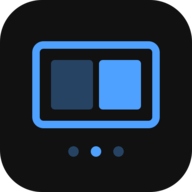
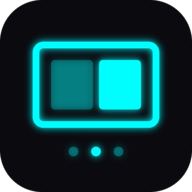
Theme: adopt the desktop's Cyberpunk Cyan palette
Takes the palette from the Omarchy theme this machine runs, matching the
roles rather than copying hex values: #00ffff is already what "active" means
here (col.active_border, the hyprlock ring) so it is the accent, and #ff2a6d
is already what failure means (hyprlock's fail_color) so it is the error
colour. The app now agrees with the rest of the screen.

Neon as highlight, not texture: glow on the wordmark, active rail dot,
workspace badge, working pulse, focus rings and the primary action. Nothing
else, because if everything glows nothing signals.

Icon regenerated in the same palette with a soft bloom, plus manifest and
theme-color, so the installed app matches. Light mode dropped — a cyberpunk
palette has no coherent light variant.

Contrast measured, not assumed: body 17.8:1, dim 5.7:1, transcript 16.5:1.
The check caught the placeholder at 1.14:1 — a transparent tint that was
effectively invisible, which had silently killed the rotating hints that
live in it. Now 5.3:1.

diff --git a/web/src/app.css b/web/src/app.css
@@ -1,16 +1,27 @@
 :root {
-  color-scheme: dark light;
-  --bg: #111; --fg: #e8e8e8; --dim: #8a8a8a;
-  --line: #333; --ok: #4ea1ff; --err: #ff6b6b;
-  --panel: color-mix(in srgb, var(--fg) 6%, transparent);
-  /* One elevation step. Cards sit on it so they read as objects rather than
-     outlined regions — a 1px border alone gives no hierarchy. */
-  --card: color-mix(in srgb, var(--fg) 4%, transparent);
-  --card-line: color-mix(in srgb, var(--fg) 12%, transparent);
+  /* Cyberpunk Cyan, taken from the Omarchy theme this desktop runs, so the app
+     reads as part of the machine rather than a visitor. Roles are matched to
+     how the theme already uses them: cyan is what "active" looks like here
+     (window borders, the lock ring), #ff2a6d is what failure looks like. */
+  color-scheme: dark;
+
+  --bg:      #0a0a0f;
+  --fg:      #e0f7ff;
+  --dim:     #7d8ba1;   /* muted, still 4.5:1 on the background */
+  --line:    #1e2230;
+  --ok:      #00ffff;   /* accent — matches col.active_border */
+  --err:     #ff2a6d;   /* matches hyprlock's fail_color */
+  --warn:    #ffd700;
+
+  --panel:     #11131c;
+  --card:      #12141e;
+  --card-line: #23283a;
   --radius: 10px;
-}
-@media (prefers-color-scheme: light) {
-  :root { --bg: #fafafa; --fg: #1a1a1a; --dim: #666; --line: #dcdcdc; }
+
+  /* Neon is a highlight, not a texture. Only the accent glows, and only where
+     something is genuinely active. */
+  --glow: 0 0 0 1px color-mix(in srgb, var(--ok) 35%, transparent),
+          0 0 12px -2px color-mix(in srgb, var(--ok) 45%, transparent);
 }
 * { box-sizing: border-box; -webkit-tap-highlight-color: transparent; }
 body {
@@ -39,6 +50,7 @@ button {
   transition: background-color .12s ease, border-color .12s ease, opacity .12s ease;
 }
 button:active { background: var(--line); transform: translateY(.5px); }
+button:focus-visible { outline: none; box-shadow: var(--glow); }
 button:disabled { opacity: .45; }
 button.sm { font-size: 12px; padding: .3rem .55rem; min-width: 44px; }
 
@@ -53,8 +65,12 @@ input, select {
   transition: border-color .12s ease;
 }
 input:focus, select:focus {
-  outline: none; border-color: color-mix(in srgb, var(--ok) 55%, transparent);
+  outline: none;
+  border-color: color-mix(in srgb, var(--ok) 60%, transparent);
+  box-shadow: var(--glow);
 }
-::placeholder { color: color-mix(in srgb, var(--fg) 32%, transparent); }
+/* The placeholder carries the rotating hints, so it has to be readable — a
+   transparent tint measured 1.14:1 against the card, i.e. invisible. */
+::placeholder { color: var(--dim); opacity: 1; }
 .dim { color: var(--dim); }
 .err { color: var(--err); }

diff --git a/web/src/App.svelte b/web/src/App.svelte
@@ -157,7 +157,11 @@
     padding: .5rem .6rem; border-bottom: 1px solid var(--line);
     background: var(--bg); z-index: 3;
   }
-  .brand { flex: none; font-weight: 600; letter-spacing: .02em; }
+  .brand {
+    flex: none; font-weight: 600; letter-spacing: .06em;
+    color: var(--ok);
+    text-shadow: 0 0 14px color-mix(in srgb, var(--ok) 40%, transparent);
+  }
   .reload { flex: none; }
   .status {
     flex: 1 1 auto; min-width: 0; font-size: 12px; text-align: right;
@@ -179,7 +183,10 @@
   .dots i.has { background: var(--dim); }
   /* the index marker is a square so it reads as "not a screen" */
   .dots i.idx { border-radius: 2px; background: var(--dim); }
-  .dots i.on { background: var(--ok); }
+  .dots i.on {
+    background: var(--ok);
+    box-shadow: 0 0 8px -1px color-mix(in srgb, var(--ok) 70%, transparent);
+  }
   .rail {
     display: flex; overflow-x: auto; scroll-snap-type: x mandatory;
     /* Takes whatever is left after the header — no assumed header height.
@@ -190,9 +197,10 @@
   }
   .rail::-webkit-scrollbar { display: none; }
   .offline {
-    margin: .6rem; padding: .6rem .7rem; border-radius: 8px; line-height: 1.5;
-    font-size: 12px; border: 1px solid var(--err);
-    background: color-mix(in srgb, var(--err) 12%, transparent);
+    margin: .6rem; padding: .6rem .7rem; border-radius: var(--radius); line-height: 1.5;
+    font-size: 12px; border: 1px solid color-mix(in srgb, var(--err) 60%, transparent);
+    background: color-mix(in srgb, var(--err) 10%, transparent);
+    box-shadow: 0 0 16px -6px color-mix(in srgb, var(--err) 60%, transparent);
   }
   .offline button { margin-top: .4rem; display: block; }
   .gate { padding: 1rem; display: flex; flex-direction: column; gap: .6rem; overflow-y: auto; }

diff --git a/web/src/lib/Pane.svelte b/web/src/lib/Pane.svelte
@@ -259,19 +259,23 @@
   .bar { display: flex; align-items: center; gap: .4rem; min-width: 0; }
   .name {
     flex: 1; min-width: 0; font-size: 1.05rem; font-weight: 600; color: var(--ok);
+    text-shadow: 0 0 18px color-mix(in srgb, var(--ok) 30%, transparent);
     overflow: hidden; text-overflow: ellipsis; white-space: nowrap;
   }
   .name.none { font-size: .95rem; font-weight: 400; color: var(--dim); }
   .badge {
-    font-size: .6rem; letter-spacing: .08em; text-transform: uppercase;
+    font-size: .6rem; letter-spacing: .08em; text-transform: uppercase; flex: none;
     color: var(--bg); background: var(--ok); border-radius: 4px; padding: .1rem .3rem;
+    box-shadow: 0 0 12px -2px color-mix(in srgb, var(--ok) 55%, transparent);
   }
   .ghost { border-color: transparent; color: var(--dim); }
   .keytoggle { min-width: 44px; font-size: 16px; }
   .keytoggle.on { color: var(--ok); background: color-mix(in srgb, var(--ok) 10%, transparent); }
   .pulse {
     width: 7px; height: 7px; border-radius: 50%; flex: none;
-    background: var(--ok); animation: breathe 1.2s ease-in-out infinite;
+    background: var(--ok);
+    box-shadow: 0 0 10px color-mix(in srgb, var(--ok) 80%, transparent);
+    animation: breathe 1.2s ease-in-out infinite;
   }
   @keyframes breathe { 0%,100% { opacity: .25 } 50% { opacity: 1 } }
   @media (prefers-reduced-motion: reduce) { .pulse { animation: none; opacity: .8 } }

diff --git a/web/src/lib/Overview.svelte b/web/src/lib/Overview.svelte
@@ -202,6 +202,7 @@
     flex: none;
     font-size: .6rem; letter-spacing: .08em; text-transform: uppercase;
     color: var(--bg); background: var(--ok); border-radius: 4px; padding: .1rem .3rem;
+    box-shadow: 0 0 12px -2px color-mix(in srgb, var(--ok) 55%, transparent);
   }
   .acts { display: flex; gap: .4rem; min-width: 0; }
   /* extra separation before a destructive control */
@@ -217,6 +218,8 @@
   .new {
     border-color: color-mix(in srgb, var(--ok) 55%, transparent); color: var(--ok);
     background: color-mix(in srgb, var(--ok) 8%, transparent);
+    box-shadow: 0 0 20px -8px color-mix(in srgb, var(--ok) 80%, transparent);
+    letter-spacing: .04em;
     position: sticky; bottom: env(safe-area-inset-bottom, 0px); width: 100%;
     background: var(--bg); box-shadow: 0 -8px 12px -8px var(--bg);
   }

diff --git a/web/index.html b/web/index.html
@@ -7,7 +7,7 @@
       content="width=device-width,initial-scale=1,viewport-fit=cover,interactive-widget=resizes-content"
     />
     <link rel="manifest" href="/manifest.webmanifest" />
-    <meta name="theme-color" content="#111111" />
+    <meta name="theme-color" content="#0a0a0f" />
     <!-- iOS ignores the manifest: it needs its own capability flags and icon. -->
     <meta name="apple-mobile-web-app-capable" content="yes" />
     <meta name="apple-mobile-web-app-status-bar-style" content="black-translucent" />

diff --git a/docs/decisions.md b/docs/decisions.md
@@ -485,3 +485,26 @@ long detour through TLS, DNS and firewalls looking for a cause that was never th
 
 Sources: [Chrome installability criteria](https://developer.chrome.com/blog/update-install-criteria),
 [web.dev install criteria](https://web.dev/articles/install-criteria)
+
+## Theme: the desktop's own palette
+
+Rather than invent a look, the app takes the palette from the Omarchy theme this machine
+runs — "Cyberpunk Cyan" — so it reads as part of the desktop rather than a visitor.
+
+Roles were matched to how the theme already uses the colours, not just the hex values
+copied: `#00ffff` is what *active* looks like here (it is `col.active_border` and the
+hyprlock ring), and `#ff2a6d` is what *failure* looks like (hyprlock's `fail_color`). So
+cyan is the accent and pink is the error colour, and both mean the same thing in the app
+as they do everywhere else on screen.
+
+Neon is used as a highlight, not a texture: a glow on the wordmark, the active rail dot,
+the workspace badge, the working pulse, focus rings, and the primary action. Nothing
+else glows, because if everything does it stops signalling anything.
+
+Light mode was dropped. A cyberpunk palette has no coherent light variant and this
+desktop is dark.
+
+Contrast measured rather than trusted: body 17.8:1, dim 5.7:1, transcript on card
+16.5:1. That check caught a real failure — the placeholder was a transparent tint at
+**1.14:1**, effectively invisible, which silently killed the rotating hint feature that
+lives in it. Now 5.3:1.
